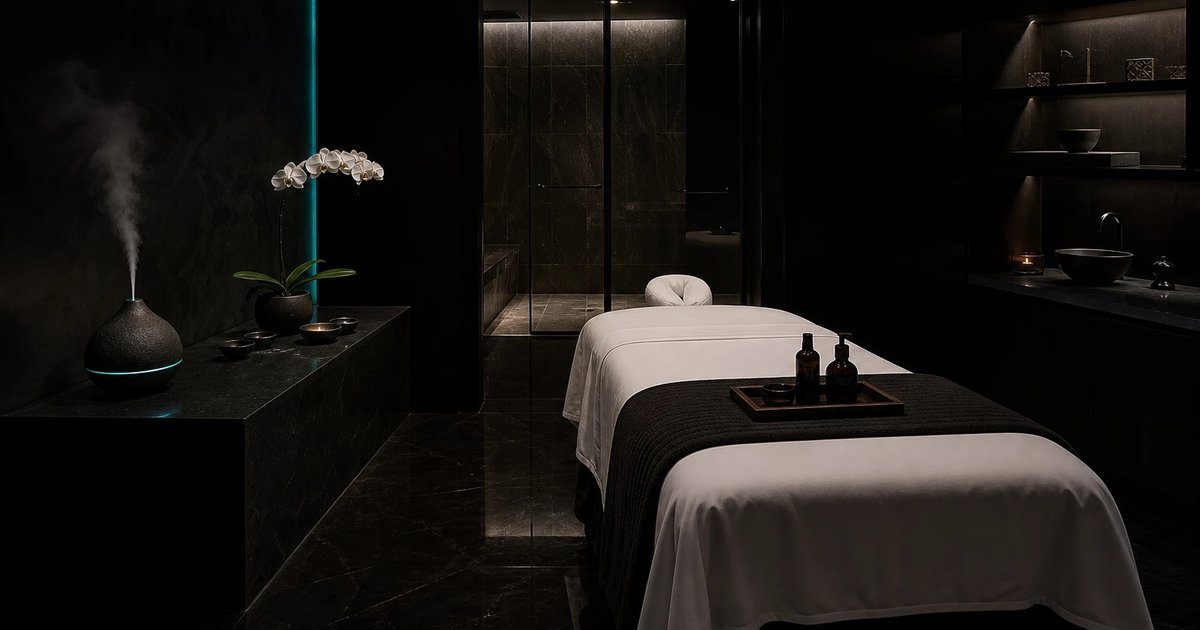
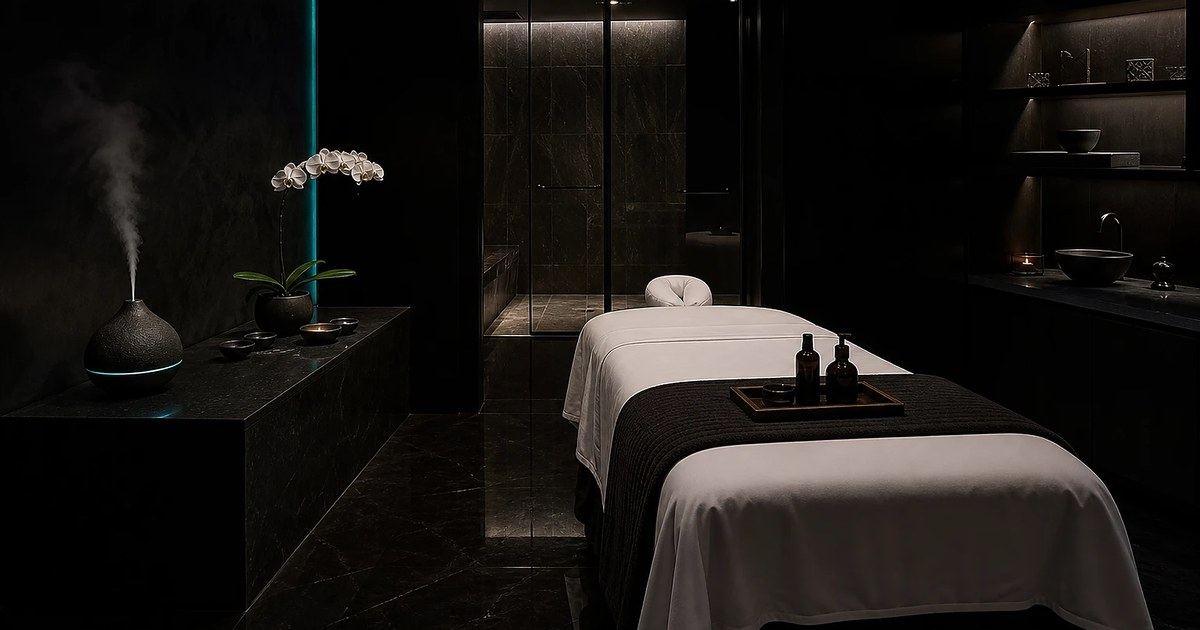
+++

diff --git a/assets/css/pages/home-v4.css b/assets/css/pages/home-v4.css
@@ -8,6 +8,7 @@
 :root {
   --font-display: 'DM Serif Display', Georgia, serif;
   --font-body:    'Jost', -apple-system, BlinkMacSystemFont, sans-serif;
+  --font-script:  'Pinyon Script', 'Segoe Script', cursive;
 }
 
 /* ── Section shell ───────────────────────────────── */
@@ -111,7 +112,10 @@
   width: 100%;
   height: 100%;
   object-fit: cover;
-  object-position: center center;
+  object-position: center 42%;
+  transform: translateZ(0);
+  -webkit-backface-visibility: hidden;
+  backface-visibility: hidden;
 }
 
 .hero2__overlay {
@@ -163,8 +167,16 @@
   animation: heroFadeUp 1.1s ease .75s both;
 }
 .hero2__title em {
-  font-style: italic;
+  font-family: var(--font-script);
+  font-style: normal;
+  font-weight: 400;
+  font-size: 1.22em;
+  line-height: 0.95;
   color: var(--tiffany-light);
+  letter-spacing: 0.02em;
+  display: inline-block;
+  padding-inline: 0.08em;
+  vertical-align: baseline;
 }
 
 .hero2__sub {
@@ -237,6 +249,11 @@
     hyphens: auto;
     margin-bottom: 1.5rem;
     padding-inline: 0;
+  }
+
+  .hero2__title em {
+    font-size: 1.18em;
+    line-height: 0.92;
   }
 
   .hero2__sub {

diff --git a/cs/index.html b/cs/index.html
@@ -6,7 +6,7 @@
   <meta name="theme-color" content="#1a1d21">
   <link rel="preconnect" href="https://fonts.googleapis.com">
   <link rel="preconnect" href="https://fonts.gstatic.com" crossorigin>
-  <link rel="stylesheet" href="https://fonts.googleapis.com/css2?family=DM+Serif+Display:ital@0;1&family=Jost:wght@300;400;500;600&display=swap">
+  <link rel="stylesheet" href="https://fonts.googleapis.com/css2?family=DM+Serif+Display:ital@0;1&family=Jost:wght@300;400;500;600&family=Pinyon+Script&display=swap">
   <link rel="stylesheet" href="/assets/css/tokens.css">
   <link rel="stylesheet" href="/assets/css/base.css">
   <link rel="stylesheet" href="/assets/css/components/glass.css">

diff --git a/en/index.html b/en/index.html
@@ -6,7 +6,7 @@
   <meta name="theme-color" content="#1a1d21">
   <link rel="preconnect" href="https://fonts.googleapis.com">
   <link rel="preconnect" href="https://fonts.gstatic.com" crossorigin>
-  <link rel="stylesheet" href="https://fonts.googleapis.com/css2?family=DM+Serif+Display:ital@0;1&family=Jost:wght@300;400;500;600&display=swap">
+  <link rel="stylesheet" href="https://fonts.googleapis.com/css2?family=DM+Serif+Display:ital@0;1&family=Jost:wght@300;400;500;600&family=Pinyon+Script&display=swap">
   <link rel="stylesheet" href="/assets/css/tokens.css">
   <link rel="stylesheet" href="/assets/css/base.css">
   <link rel="stylesheet" href="/assets/css/components/glass.css">

diff --git a/ru/index.html b/ru/index.html
@@ -6,7 +6,7 @@
   <meta name="theme-color" content="#1a1d21">
   <link rel="preconnect" href="https://fonts.googleapis.com">
   <link rel="preconnect" href="https://fonts.gstatic.com" crossorigin>
-  <link rel="stylesheet" href="https://fonts.googleapis.com/css2?family=DM+Serif+Display:ital@0;1&family=Jost:wght@300;400;500;600&display=swap">
+  <link rel="stylesheet" href="https://fonts.googleapis.com/css2?family=DM+Serif+Display:ital@0;1&family=Jost:wght@300;400;500;600&family=Pinyon+Script&display=swap">
   <link rel="stylesheet" href="/assets/css/tokens.css">
   <link rel="stylesheet" href="/assets/css/base.css">
   <link rel="stylesheet" href="/assets/css/components/glass.css">

diff --git a/templates/base.html b/templates/base.html
@@ -29,7 +29,7 @@
 
   <link rel="preconnect" href="https://fonts.googleapis.com">
   <link rel="preconnect" href="https://fonts.gstatic.com" crossorigin>
-  <link rel="stylesheet" href="https://fonts.googleapis.com/css2?family=DM+Serif+Display:ital@0;1&family=Jost:wght@300;400;500;600&display=swap">
+  <link rel="stylesheet" href="https://fonts.googleapis.com/css2?family=DM+Serif+Display:ital@0;1&family=Jost:wght@300;400;500;600&family=Pinyon+Script&display=swap">
 
   <link rel="stylesheet" href="{% static 'css/tokens.css' %}">
   <link rel="stylesheet" href="{% static 'css/base.css' %}">

diff --git a/scripts/rebuild_home.py b/scripts/rebuild_home.py
@@ -1168,6 +1168,7 @@ FONT_LINK = (
     '  <link rel="stylesheet" href="https://fonts.googleapis.com/css2?'
     'family=DM+Serif+Display:ital@0;1'
     '&family=Jost:wght@300;400;500;600'
+    '&family=Pinyon+Script'
     '&display=swap">\n'
 )
 